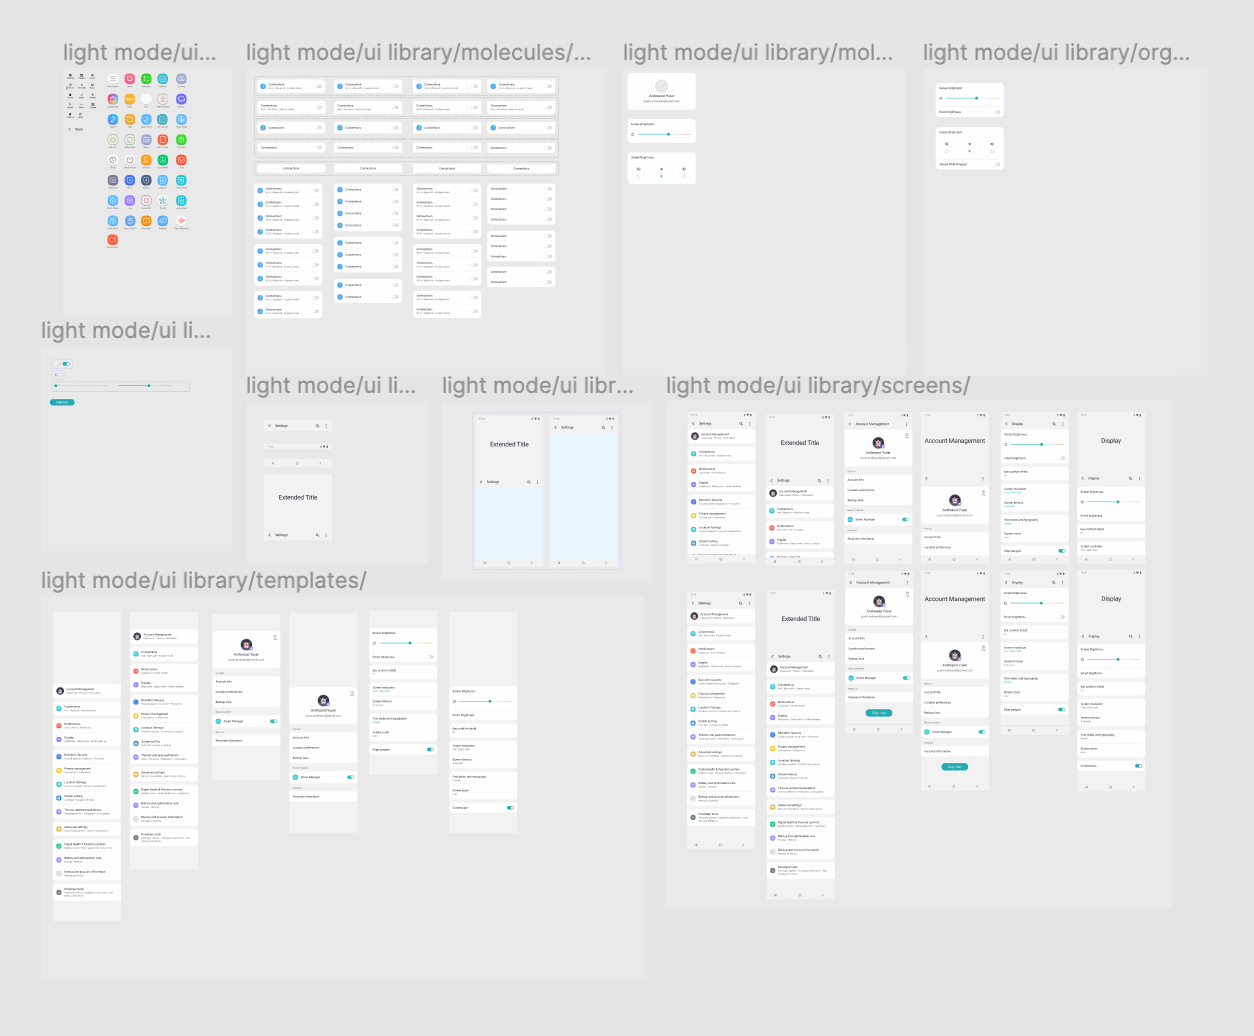
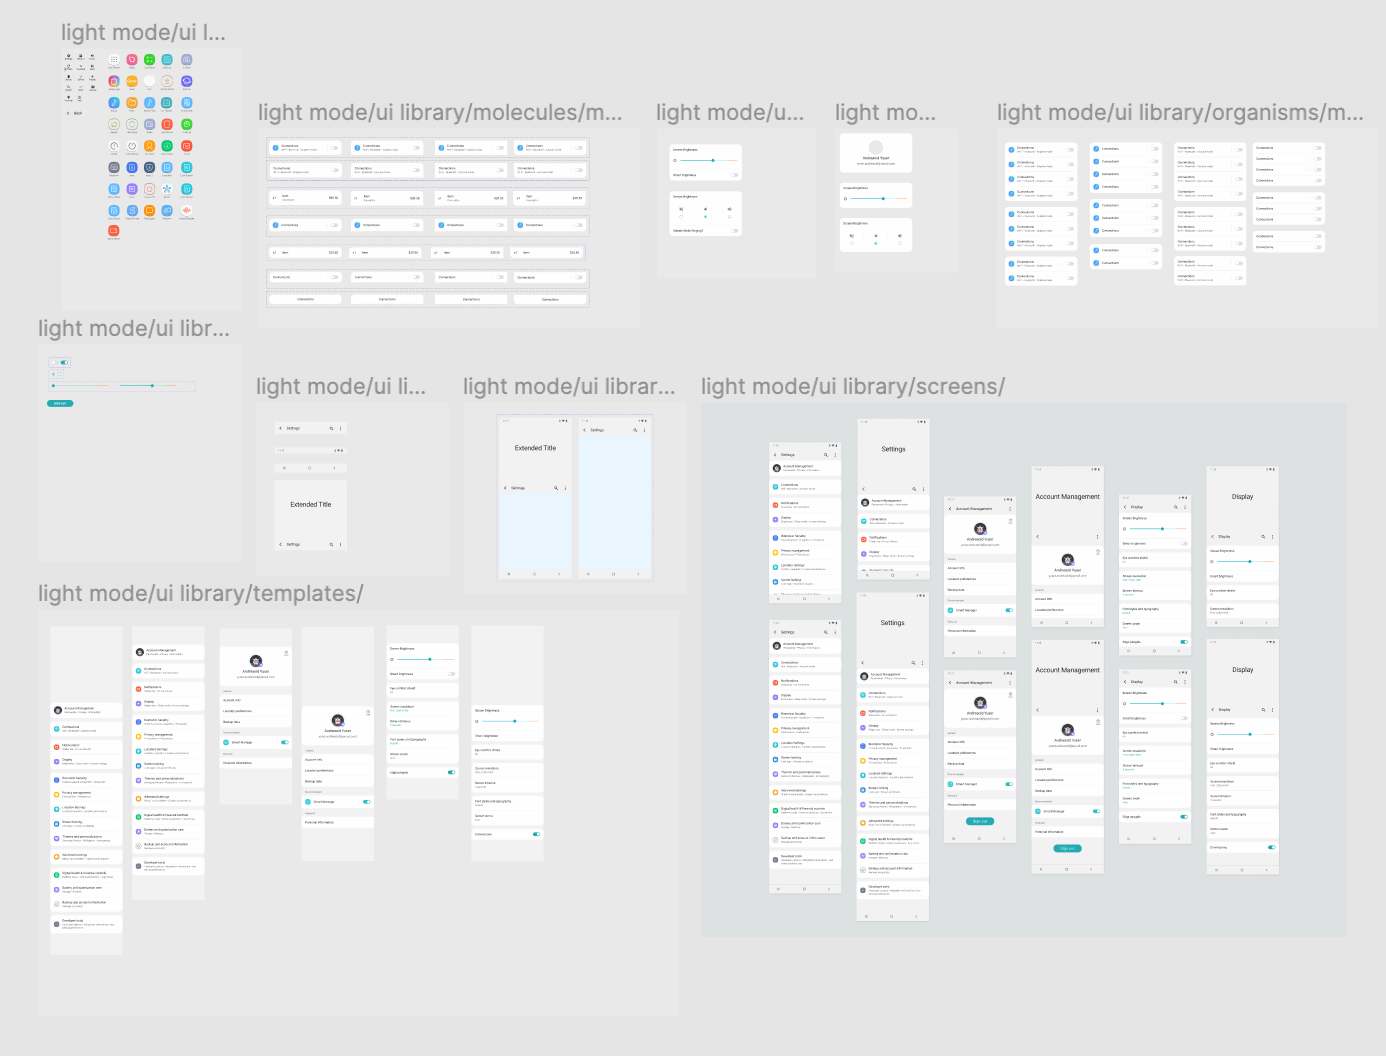
Save

diff --git a/projects/design-system-one.html b/projects/design-system-one.html
@@ -255,7 +255,7 @@
           <div>
             <h4>Summary</h4>
             <p>Aside from fixing the menu item margins, improving the application icons, and further organizing the visual elements and naming conventions, I also added additional elements to the design system.</p>
-            <p>I added two medium to large cards for account management information and screen brightness control. I also added a turquoise colored swatches to the color styles and added additional font styles.</p>
+            <p>I added two medium to large cards for account management information and screen brightness control. I also added a turquoise colored swatches to the color styles, added additional font styles, and additional list-item types.</p>
           </div>
         </div>
       </div>
